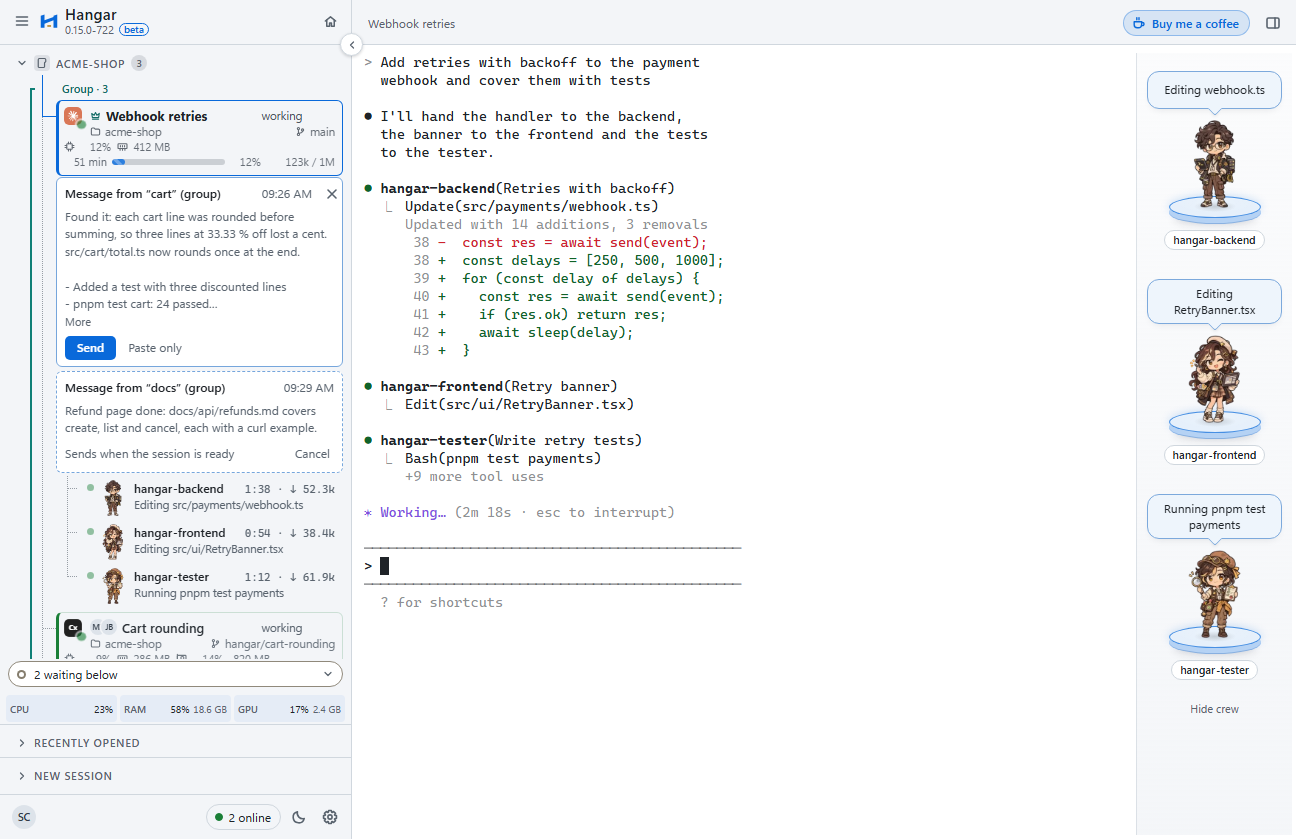
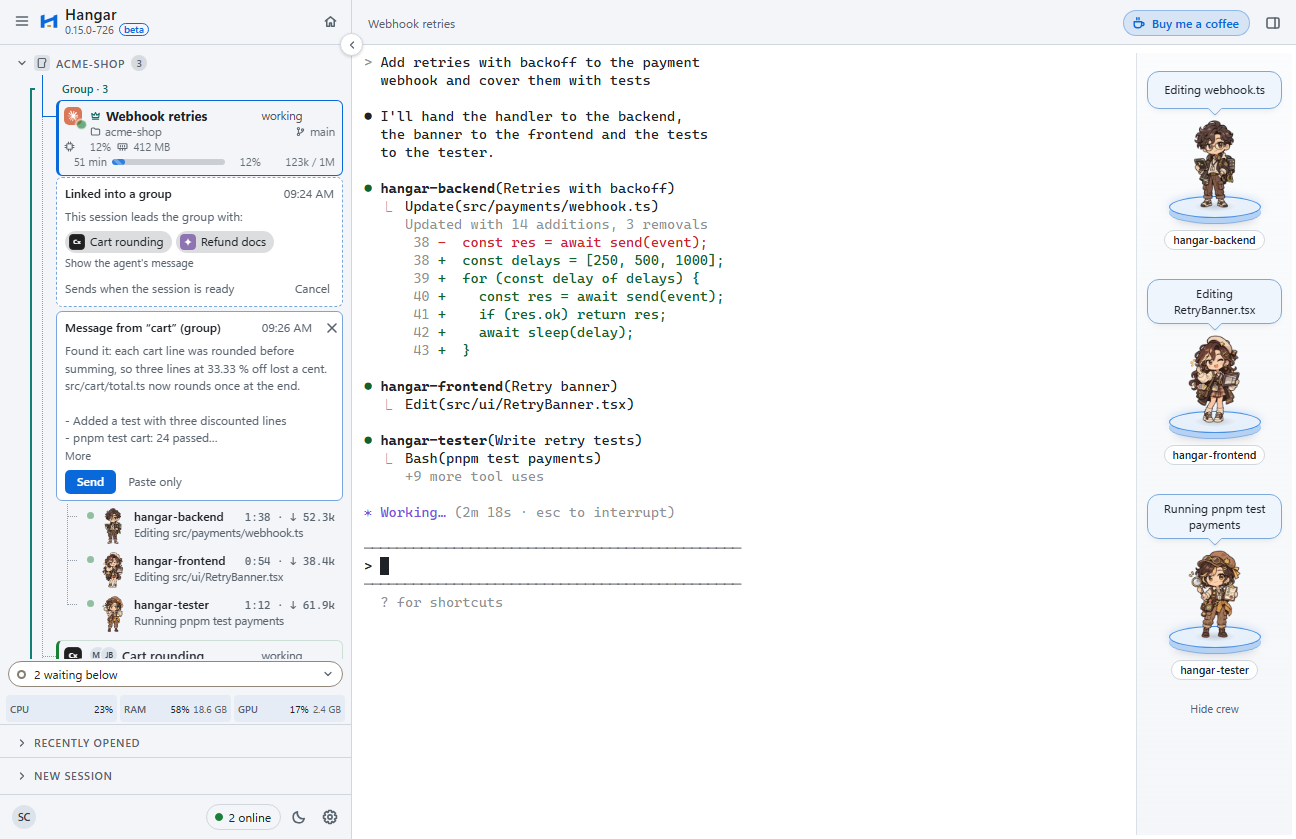
docs: show the 0.15.0 features in the README screenshots
The scene for adding a session to a link group replaces the home view, the overview shows the main bar with the support badge, and the waiting message scene shows a group's introduction to its lead.

Changed region(s): [[0.0309, 0.2169, 0.2778, 0.8057], [0.216, 0.2169, 0.2778, 0.2479]]

diff --git a/tools/readme-shots/mock.ts b/tools/readme-shots/mock.ts
@@ -4,9 +4,8 @@
 // a second Claude Code session started as the "hangar-security" sub-agent, Gemini CLI done with the
 // API docs in the project "acme-docs", a PowerShell running the docs site's dev server and a
 // signed-in account with two teammates online. Three of the agents form a link group with a lead.
-// Per scene it adds what that scene shows: the sessions opened recently, notes, a year of commits
-// for the activity calendar, a crew of reviewers, messages of the group that wait for a click or
-// a commit held by the secret guard.
+// Per scene it adds what that scene shows: the sessions opened recently, notes, a crew of
+// reviewers, messages of the group that wait for a click or a commit held by the secret guard.
 // The driver (run.mjs) picks what each screenshot shows by clicking through the real frontend.
 // Nothing here talks to a real process, file or network, and every name in it is made up.
 
@@ -202,7 +201,8 @@ const workspace = { version: 1, activeKey: uuid(1), sessions: mainSessions };
 const AGE_MINUTES = [52, 47, 38, 31, 64];
 
 // "Recently opened" (recentlyOpened.ts): programs started in a folder before, none of them open
-// now, newest first. The recently opened scene shows five, the others the first three. Times count
+// now, newest first. The recently opened scene shows five, the overview two (its sidebar holds the
+// link group's bracket and the lead's crew above them), the others the first three. Times count
 // back from the clock's start, so the ages read the same however long the scene takes to settle.
 const recent = (
   profileId: string,
@@ -228,7 +228,7 @@ const recentlyOpened = [
   recent("gemini", ROOT, "Search ranking", DAY + 3 * HOUR, 3),
   recent("pwsh", INFRA, "acme-infra", 3 * DAY, null),
   recent("claude", MOBILE, "Push notifications", 6 * DAY, 4),
-].slice(0, FEW ? 5 : 3);
+].slice(0, FEW ? 5 : SCENE === "overview" ? 2 : 3);
 
 // ANSI helpers
 const E = "\x1b[";
@@ -732,7 +732,9 @@ function focusSubAgent(args: Args): boolean {
   return true;
 }
 
-// The account and the team: Sam, signed in, shares acme-shop with Mika and Jonas.
+// The account and the team: Sam, signed in on Free, works in acme-shop, a Team project Mika owns,
+// with Mika and Jonas. Free keeps the support badge in the bar above the work area
+// (teamPlan.ts `showsSupportLink`); the team project keeps the team functions.
 const PROJECT = "proj-acme-shop";
 const ACCOUNT_BASE = "https://account.example.com";
 const accountView = {
@@ -745,8 +747,8 @@ const accountView = {
       id: "user-sam",
       email: "sam@example.com",
       name: "Sam Carter",
-      seatsAccountTotal: 5,
-      seatsAccountUsed: 3,
+      seatsAccountTotal: 1,
+      seatsAccountUsed: 1,
     },
   },
   otherSignIns: [],
@@ -755,12 +757,12 @@ const projects = [
   {
     id: PROJECT,
     name: "acme-shop",
-    role: "owner",
+    role: "member",
     plan: "Team",
     seatsAccountTotal: 5,
     seatsAccountUsed: 3,
     pendingInvitations: 0,
-    canInvite: true,
+    canInvite: false,
   },
 ];
 const teamStatus = { state: "connected", epoch: 4, members: 3, devices: 4 };
@@ -1077,7 +1079,7 @@ const linkGroup = {
     { session: 4, name: "docs", role: "member" },
   ],
 };
-const linkMessage = (id: number, fromName: string, minutesAgo: number, text: string) => ({
+const linkMessage = (id: number, fromName: string | null, minutesAgo: number, text: string) => ({
   id,
   group: linkGroup.id,
   fromName,
@@ -1088,12 +1090,24 @@ const linkMessage = (id: number, fromName: string, minutesAgo: number, text: str
   claimed: false,
 });
 /**
- * The reports that wait below the lead's row, oldest first: the driver sends the second, which
- * then waits for the lead to pause, and leaves the first with its buttons.
+ * Hangar's introduction of the group to its lead, as links.rs `introduction` writes it for the
+ * agent; its card shows people whom the session works with instead (linkIntro.ts).
+ */
+const LEAD_INTRO = [
+  'You are linked with other agents in Hangar. They work in parallel in their own sessions. Your member name is "shop". The other members:',
+  '- "cart": Codex CLI in acme-shop-cart-rounding',
+  '- "docs": Gemini CLI in acme-docs',
+  "You lead this group: split the work into tasks, hand them to the members with `hangar-send <name>`, collect their results and keep the overall picture. " +
+    'To write to one of them, run `hangar-send <name> "<message>"`. No answer is needed to this introduction.',
+].join("\n");
+/**
+ * What waits below the lead's row, oldest first: Hangar's introduction of the group, which the
+ * driver sends (it then waits for the busy lead to pause), and a member's report with its buttons.
  */
 const heldMessages = [
+  linkMessage(1, null, 6, LEAD_INTRO),
   linkMessage(
-    1,
+    2,
     "cart",
     4,
     [
@@ -1104,13 +1118,6 @@ const heldMessages = [
       "- pnpm test cart: 24 passed",
       "- Branch hangar/cart-rounding is ready for review",
     ].join("\n"),
-  ),
-  linkMessage(
-    2,
-    "docs",
-    1,
-    "Refund page done: docs/api/refunds.md covers create, list and cancel, each with a curl " +
-      "example.",
   ),
 ];
 const linkState = {
@@ -1239,47 +1246,6 @@ function listNotes(args: Args): unknown[] {
   return [];
 }
 
-// The activity calendar: a year of the person's own commits up to the fixed day, as `git log`
-// would give their author times. Busy weekdays, quiet weekends, two weeks off in summer and a
-// few days around the new year, a little more each month. Seeded, so every run draws the same
-// year.
-function commitTimes(): number[] {
-  let seed = 0x5eed;
-  const random = () => {
-    seed = (seed * 1_103_515_245 + 12_345) % 2_147_483_648;
-    return seed / 2_147_483_648;
-  };
-  const today = new Date(FIXED_START);
-  const times: number[] = [];
-  for (let back = 364; back >= 0; back -= 1) {
-    const day = new Date(
-      Date.UTC(today.getUTCFullYear(), today.getUTCMonth(), today.getUTCDate() - back),
-    );
-    const month = day.getUTCMonth();
-    const date = day.getUTCDate();
-    const weekend = day.getUTCDay() === 0 || day.getUTCDay() === 6;
-    const summerBreak = month === 7 && date >= 3 && date <= 16;
-    const newYear = (month === 11 && date >= 24) || (month === 0 && date <= 2);
-    if (summerBreak || newYear) continue;
-    const growth = 0.55 + (0.45 * (364 - back)) / 364;
-    const roll = random();
-    const count = weekend
-      ? roll < 0.75
-        ? 0
-        : Math.floor(random() * 3) + 1
-      : roll < 0.12
-        ? 0
-        : Math.round((1 + random() * random() * 13) * growth);
-    for (let commit = 0; commit < count; commit += 1) {
-      const hour = 8 + Math.floor(random() * 11);
-      const minute = Math.floor(random() * 60);
-      times.push(Math.floor(day.getTime() / 1000) + hour * 3600 + minute * 60);
-    }
-  }
-  return times;
-}
-const gitActivity = { commits: commitTimes() };
-
 // Events: the frontend listens through the event plugin; the mock answers some right away.
 const listeners = new Map<string, number[]>();
 let nextEventId = 1;
@@ -1406,8 +1372,6 @@ const handlers: Record<string, (args: Args) => unknown> = {
   // "Recently opened" in the sidebar; reopening is not part of any scene.
   load_recently_closed: () => recentlyOpened,
   save_recently_closed: () => null,
-  // The home view's activity calendar.
-  git_activity: () => gitActivity,
   save_message_queue: () => null,
   log_work_phase: () => null,
   git_repo_places: (args) => {

diff --git a/README.md b/README.md
@@ -35,7 +35,7 @@ your own accounts, on your own machine. The desktop app is open source under the
 
 <picture>
   <source media="(prefers-color-scheme: light)" srcset="docs/images/hangar-light.png">
-  <img alt="Hangar with a Claude Code session whose sub-agents hangar-backend, hangar-frontend and hangar-tester stand on round stages in the crew column, each with a speech bubble saying what it edits or runs, and the notes panel open on the right; the sidebar groups the sessions by project with a teal bracket labeled Group · 3 around the linked ones, the hangar-security session has waited for 12 minutes, and the Recently opened group lists acme-billing, acme-web and acme-shop with their program and age" src="docs/images/hangar-dark.png">
+  <img alt="Hangar with a Claude Code session whose sub-agents hangar-backend, hangar-frontend and hangar-tester stand on round stages in the crew column, each with a speech bubble saying what it edits or runs, and the notes panel open on the right; the sidebar groups the sessions by project with a teal bracket labeled Group · 3 around the linked ones, the hangar-security session has waited for 12 minutes, the Recently opened group lists acme-billing and acme-web with their program and age, and the bar above the terminal shows the session's name, a blue Buy me a coffee badge and the switch for the right panel" src="docs/images/hangar-dark.png">
 </picture>
 
 ## Features
@@ -292,26 +292,26 @@ Team features need the Team plan; the free plan is for one person. See
   <tr>
     <td width="50%" valign="top">
       <picture>
-        <source media="(prefers-color-scheme: light)" srcset="docs/images/hangar-home-light.png">
-        <img alt="The home view with the activity calendar of the last year in a frame, with month and weekday names, 737 commits and a legend from Less to More, above project cards for acme-shop and acme-docs with their sessions, open changes, team and dev server" src="docs/images/hangar-home-dark.png">
+        <source media="(prefers-color-scheme: light)" srcset="docs/images/hangar-waiting-message-light.png">
+        <img alt="Under the Webhook retries session, the card Linked into a group says the session leads the group with Cart rounding and Refund docs and sends once the session is ready, with Cancel; below it a message from cart reports its fix, with Send and Paste only" src="docs/images/hangar-waiting-message-dark.png">
       </picture>
-      <br><sub>The home view: a calendar of your commits and one card per project.</sub>
+      <br><sub>A new group introduces itself to its lead; messages from other agents wait for your click.</sub>
     </td>
     <td width="50%" valign="top">
       <picture>
-        <source media="(prefers-color-scheme: light)" srcset="docs/images/hangar-waiting-message-light.png">
-        <img alt="Two waiting messages under the Webhook retries session: one from cart with Send, Paste only and a close button, and one from docs set to send, saying it sends once Webhook retries waits, with Cancel" src="docs/images/hangar-waiting-message-dark.png">
+        <source media="(prefers-color-scheme: light)" srcset="docs/images/hangar-link-groups-light.png">
+        <img alt="The Edit group dialog of a link group with three members, shop, cart and docs, the session hangar-security under Add session, the lead set to the Webhook retries session and the group's cost today of 2.2M tokens, about $15.18, while a teal bracket labeled Group · 3 holds the linked sessions together in the sidebar" src="docs/images/hangar-link-groups-dark.png">
       </picture>
-      <br><sub>A message from another agent waits for your click: Send, Paste only or discard.</sub>
+      <br><sub>Link agents into a group with a lead that hands out tasks and collects the results.</sub>
     </td>
   </tr>
   <tr>
     <td width="50%" valign="top">
       <picture>
-        <source media="(prefers-color-scheme: light)" srcset="docs/images/hangar-link-groups-light.png">
-        <img alt="The Edit group dialog of a link group with three members, shop, cart and docs, the lead set to the Webhook retries session and the group's cost today of 2.2M tokens, about $15.18, while a teal bracket labeled Group · 3 holds the linked sessions together in the sidebar" src="docs/images/hangar-link-groups-dark.png">
+        <source media="(prefers-color-scheme: light)" srcset="docs/images/hangar-link-add-light.png">
+        <img alt="The Edit group dialog after hangar-security was added to a link group of three: the new member shows a dashed dot, the label new and the name security with a remove button below shop, cart and docs, while the teal bracket labeled Group · 3 holds the linked sessions together in the sidebar" src="docs/images/hangar-link-add-dark.png">
       </picture>
-      <br><sub>Link agents into a group with a lead that hands out tasks and collects the results.</sub>
+      <br><sub>Link groups can grow: add another session to a group that already works together.</sub>
     </td>
     <td width="50%" valign="top">
       <picture>

diff --git a/docs/wiki/pages/syntheses/release-rollout.md b/docs/wiki/pages/syntheses/release-rollout.md
@@ -4,7 +4,7 @@ type: synthesis
 tags: [release, updater, nsis, windows, linux, appimage, deb, macos, dmg]
 sources: ["[[tauri-updater-and-nsis]]", "[[code-signing-research]]", "[[linux-bundling-reading]]", "[[macos-release-reading]]"]
 created: 2026-11-07
-updated: 2026-11-22
+updated: 2026-11-23
 ---
 
 # Rolling out a release
@@ -111,8 +111,8 @@ collects its items under that same version without a date. `src/versionSync.test
    (`README_SHOTS_BROWSER` picks a specific executable) and writes one image per scene and color
    scheme into `docs/images/` (1296 x 839): the overview `hangar-dark.png` and `hangar-light.png`
    (at most 400 KB each) and `hangar-<scene>-dark.png` / `-light.png` for each further scene (at
-   most 300 KB each): one per most visible feature of the release. Since 0.14.0 these are six:
-   `recently-opened`, `sub-agents`, `home`, `waiting-message`, `link-groups` and `secret-guard`. A release keeps the overview plus six to nine scenes and
+   most 300 KB each): one per most visible feature of the release. Since 0.15.0 these are six:
+   `link-groups`, `waiting-message`, `link-add`, `recently-opened`, `sub-agents` and `secret-guard`. A release keeps the overview plus six to nine scenes and
    replaces the ones whose feature is no longer among the best. The README and the website use
    these stable names. `--scene <name>` renders only some scenes. Times are deterministic: the mock runs
    a fixed clock and the browser renders in UTC; animations stop on a fixed frame. It cleans up

diff --git a/docs/wiki/log.md b/docs/wiki/log.md
@@ -1609,3 +1609,8 @@ app hides team functions for people without a team and links to the pricing page
 Running agent sessions in no group can join an existing link group (`add_to_link_group`): from
 "Link with …", from "Edit group" and with Ctrl+click on members of one group. Newcomers get the
 full introduction, members one that names them. Updated: [[0014-session-links]].
+
+## [2026-11-23] update | Screenshot scenes for 0.15.0
+The scene `home` gave way to `link-add` (a session joins an existing link group); the overview now
+shows the main bar with the support badge, and `waiting-message` shows a group's introduction to
+its lead. Updated: [[release-rollout]].
